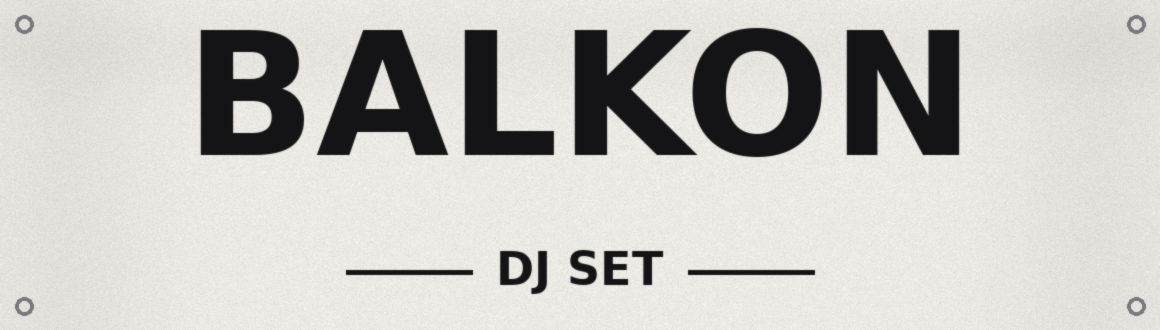
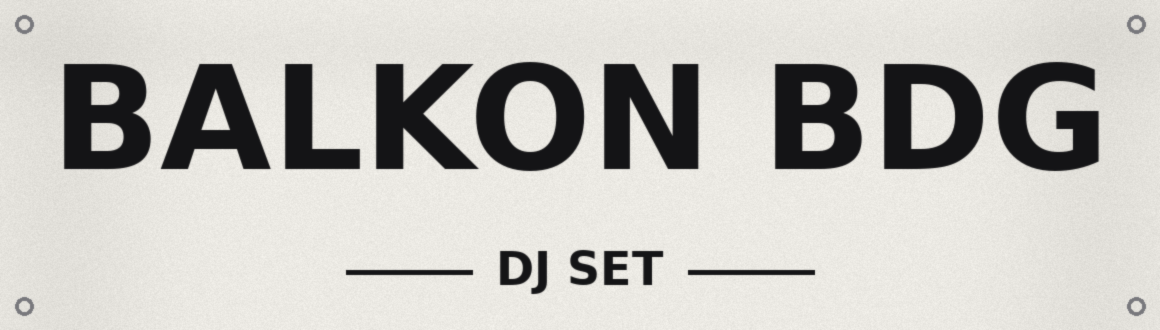
MIASTO R1 — baner balkonu DJ: „BALKON BDG” (bez buildu)
Właściciel 24.11, 14:36: „Balkon BDG”, „Zrób”. Baner na balustradzie:
„BALKON BDG — DJ SET —” (tylko naklejka dj_baner.png; geometria i gen bez zmian).

Claude-Session: https://claude.ai/code/session_01J5qMPaHokU19iAgq3Ym7jp

Changed region(s): [[0.031, 0.0606, 0.9621, 0.5455]]

diff --git a/unity-tools/claude/rynek_bdg/balkon_dj.py b/unity-tools/claude/rynek_bdg/balkon_dj.py
@@ -8,7 +8,8 @@ naczółki; balkon na II piętrze w środkowej osi (drzwi balkonowe), na balustr
 DJ, po bokach kolumny na statywach, różowo-fioletowe światła. Budynek wskazany przez właściciela: OSM w134510002
 (adres OSM Mostowa 27 — kamienica przechodzi przez kwartał, front 6,9 m od Rynku).
 
-Napis na banerze bez prawdziwej nazwy lokalu (zasada właściciela: bez prawdziwych marek i logo) — „BALKON · DJ SET”.
+Napis na banerze bez prawdziwej nazwy lokalu (zasada właściciela: bez prawdziwych marek i logo) — 14:36 właściciel:
+„Balkon BDG”, „Zrób” → „BALKON BDG — DJ SET —”.
 Muzyka w grze: BraxClaudeMuzyka (ten sam utwór co dyskoteka osiedla, industrial_pulse_petla.ogg — 138 BPM),
 głośniki = kolumny na balkonie, „sala” = plac przed kamienicą; światła pulsują w rytm (BraxPulsSwiatla).
 """
